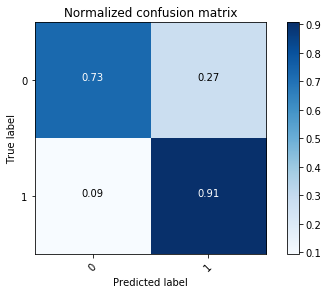
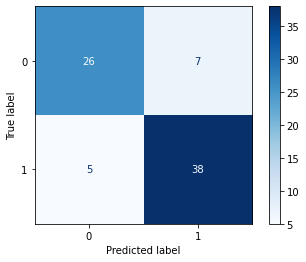
fixed issues in code regarding regularization in the appropriate place in the workflow

diff --git a/README.md b/README.md
@@ -332,9 +332,9 @@ print('Confusion Matrix:\n', cnf_matrix)
 
 ## Create a nice visual
 
-Luckily, sklearn recently implemented a `plot_confusion_matrix` function that you can use to create a nice visual of your confusion matrices. 
+Luckily, sklearn recently implemented a `ConfusionMatrixDisplay` function that you can use to create a nice visual of your confusion matrices. 
 
-[Check out the documentation](https://scikit-learn.org/stable/modules/generated/sklearn.metrics.plot_confusion_matrix.html), then visualize the confusion matrix from your logistic regression model on your test data.
+[Check out the documentation](https://scikit-learn.org/stable/modules/generated/sklearn.metrics.ConfusionMatrixDisplay.html), then visualize the confusion matrix from your logistic regression model on your test data.
 
 
 ```python
@@ -347,7 +347,7 @@ Luckily, sklearn recently implemented a `plot_confusion_matrix` function that yo
 # __SOLUTION__ 
 # Import plot_confusion_matrix
 
-from sklearn.metrics import plot_confusion_matrix
+from sklearn.metrics import ConfusionMatrixDisplay
 ```
 
 
@@ -360,14 +360,20 @@ from sklearn.metrics import plot_confusion_matrix
 ```python
 # __SOLUTION__ 
 # Visualize your confusion matrix
-plot_confusion_matrix(logreg, X_test, y_test,
-                     cmap=plt.cm.Blues)
-plt.show()
+disp = ConfusionMatrixDisplay(confusion_matrix=cnf_matrix, display_labels=model_log.classes_)
+disp.plot(cmap=plt.cm.Blues)
 ```
+
+
+
+
+    <sklearn.metrics._plot.confusion_matrix.ConfusionMatrixDisplay at 0x7fe39aeadee0>
+
+
 
 
     
-![png](index_files/index_15_0.png)
+![png](index_files/index_15_1.png)
     
 
 
